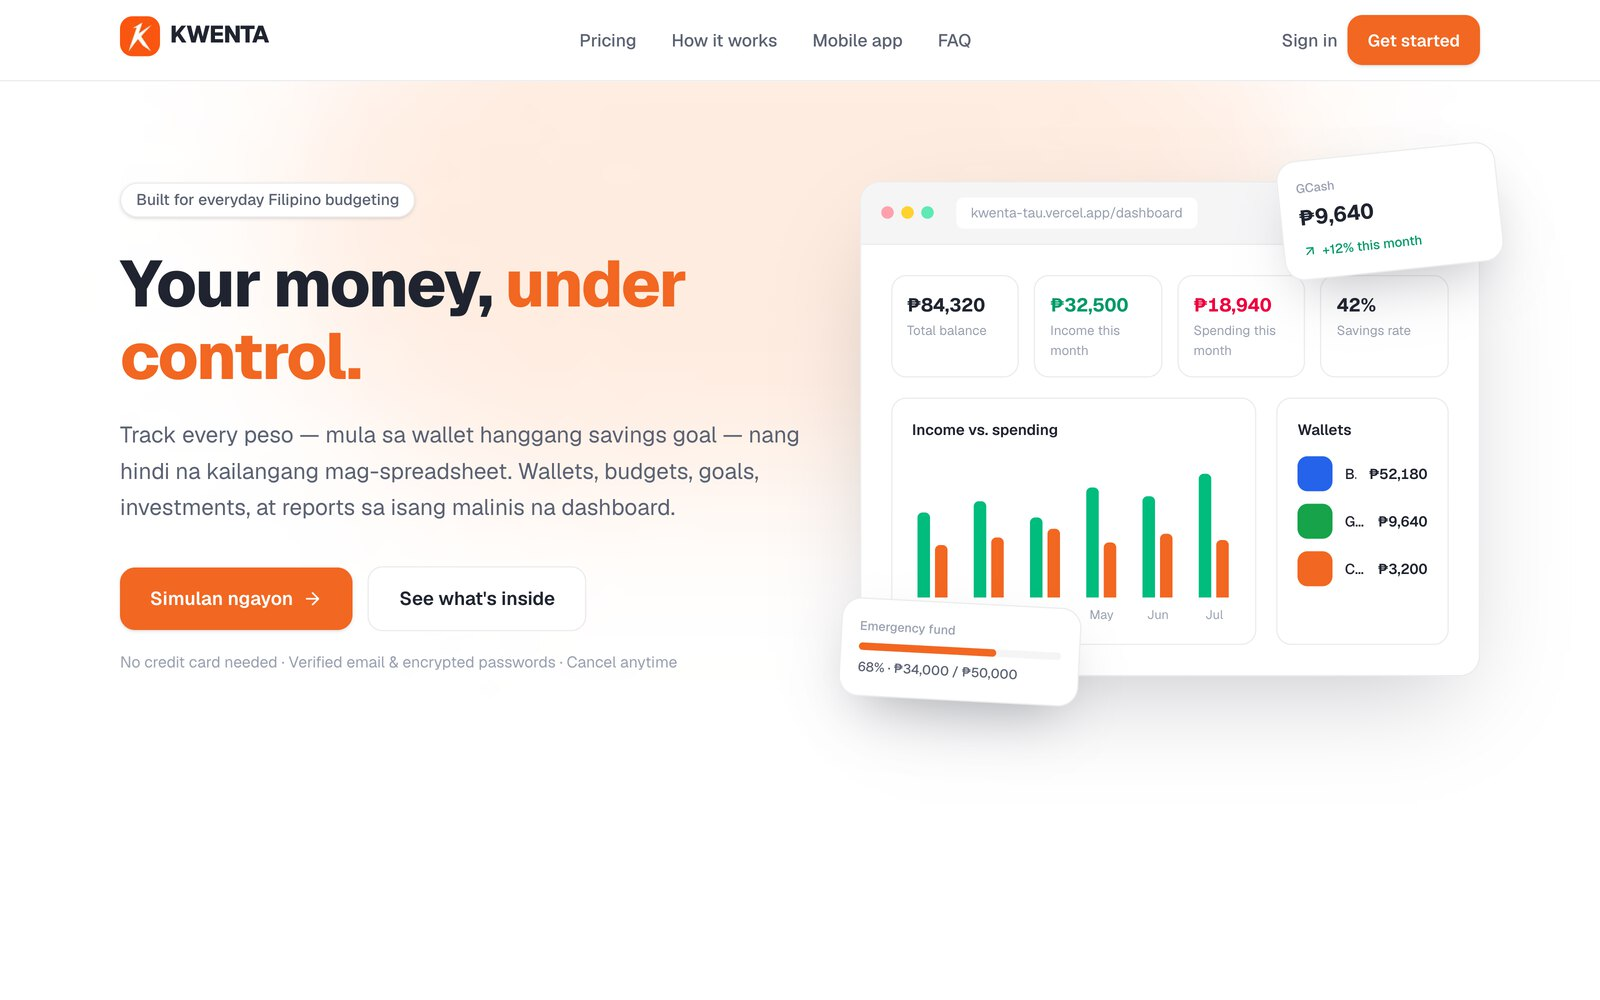
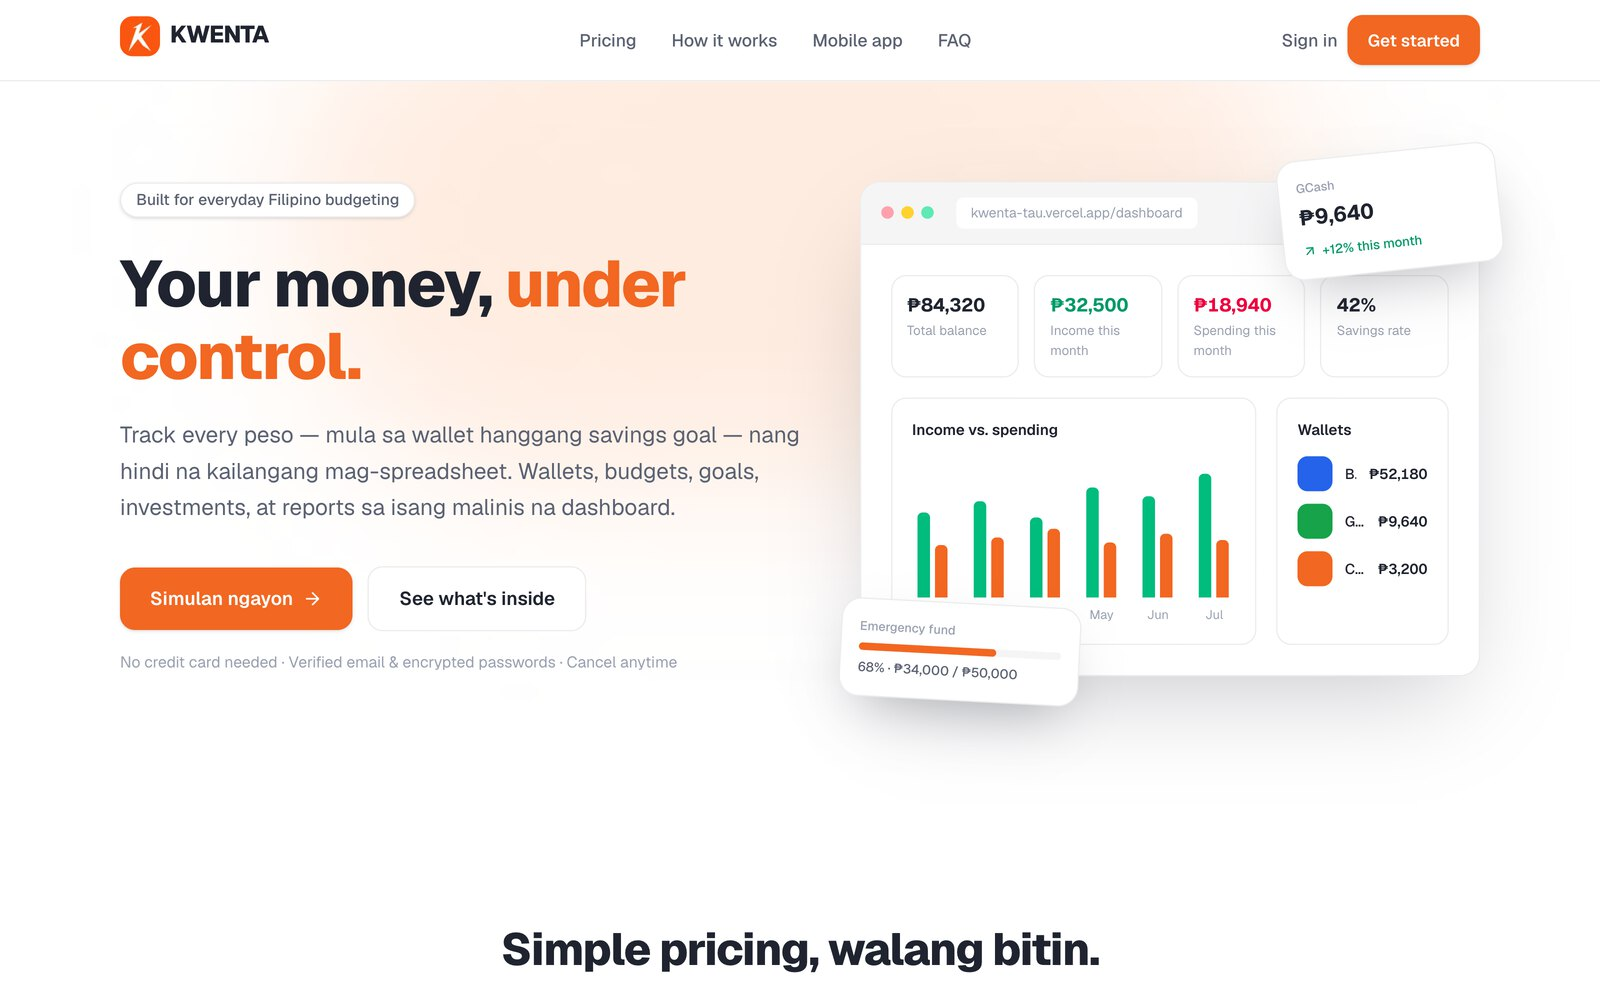
feat: remove unused project gallery images and update project details in JSON

Changed region(s): [[0.3125, 0.93, 0.6875, 0.992]]

diff --git a/src/data/caseStudies.js b/src/data/caseStudies.js
@@ -55,6 +55,165 @@ export const caseStudies = [
     accent: 'mint',
     mock: 'aurawash',
   },
+  // ── Drafted from the live sites, the tags in projects.json and each
+  //    project's own description. Context and Stack are grounded in what the
+  //    deployed product shows; Role and Key Decision are Ben's call to correct.
+  {
+    id: 'kwentatayo',
+    number: '03',
+    kicker: 'Case Study 03 · Offline-First Finance SaaS',
+    title: 'KwentaTayo',
+    subtitle: 'Budget Tracking That Survives a Dropped Signal',
+    summary:
+      'Cloud-based finance and budget tracking SaaS with an offline-first mobile app. Entries are recorded locally and sync once a connection returns, so nothing is lost when the signal drops.',
+    context:
+      'Filipino household budgeting runs on spreadsheets and memory, and the moment worth recording an expense is usually the moment the signal is worst. KwentaTayo puts wallets, budgets, goals and reports on one dashboard, in English or Tagalog, and keeps working when the connection does not.',
+    role:
+      'Full delivery: the React dashboard, the Node API and multi-currency ledger, the offline-first mobile app, and the sync layer between them.',
+    decisionLabel: 'Key Engineering Decision',
+    decision:
+      'Writes are local-first. An entry commits to device storage immediately and joins a sync queue that reconciles when the network returns, so the app never blocks on a request — the alternative, a spinner on every expense, is what makes people stop logging.',
+    stackTitle: 'Platform Stack',
+    stackBadge: 'Offline-First',
+    stack: [
+      { label: 'Frontend', value: 'React · Tailwind CSS' },
+      { label: 'Mobile & Sync', value: 'Offline-first local store · Background reconciliation' },
+      { label: 'Backend & Data', value: 'Node.js · Multi-currency ledger · Encrypted credentials' },
+    ],
+    tags: ['SaaS', 'Offline-first', 'Mobile', 'React', 'Node.js'],
+    liveUrl: 'https://kwentatayo.vercel.app/',
+    accent: 'mint',
+  },
+  {
+    id: 'aqualitpools',
+    number: '04',
+    kicker: 'Case Study 04 · Service Platform + AI',
+    title: 'AquaLit Pools',
+    subtitle: 'Pool Service Operations and an AI Front Desk',
+    summary:
+      'Website and web application for a pool repair and maintenance business, with separate portals for admin, customer and technician — plus an AI agent that handles customer enquiries in conversation.',
+    context:
+      'A pool company doing maintenance, repairs, automation and renovations has four different jobs sharing one phone line. Scheduling lived in someone head, service history was unsearchable, and every enquiry interrupted a technician. The platform gives each role its own view and puts a conversational agent in front of the enquiries.',
+    role:
+      'Site and web application end to end: the three role-scoped portals, the worklog and readings model, and the AI enquiry agent.',
+    decisionLabel: 'Key Product Decision',
+    decision:
+      'Three scoped portals instead of one dashboard with permissions bolted on. A technician opens the worklog for the pool in front of them, a customer sees only their own readings and history, and the admin sees the whole route — nobody navigates around screens that are not theirs.',
+    stackTitle: 'Platform Stack',
+    stackBadge: 'Multi-Role',
+    stack: [
+      { label: 'Frontend', value: 'React · Tailwind CSS' },
+      { label: 'Backend & Data', value: 'Node.js · Worklogs, readings and service history' },
+      { label: 'AI Layer', value: 'Conversational enquiry agent · Scoped to service context' },
+    ],
+    tags: ['Web App', 'AI Agent', 'Multi-role', 'React', 'Node.js'],
+    liveUrl: 'https://aqualitpools.com/',
+    accent: 'accent',
+  },
+  {
+    id: 'robodyx',
+    number: '05',
+    kicker: 'Case Study 05 · B2B Mobile + AI Coach',
+    title: 'Robodyx',
+    subtitle: 'Training Analytics with a Coach Inside the App',
+    summary:
+      'B2B mobile app for tracking training stats, with an AI coach embedded in the app to guide trainees, and an admin portal for the operators behind it.',
+    context:
+      'Trainees log numbers diligently and then have no idea what to change. Operators, meanwhile, cannot see across their roster without asking each person individually. Robodyx pairs the tracking with guidance and gives the operator one board.',
+    role:
+      'React Native app, the AI coach integration, and the admin portal the operators run it from.',
+    decisionLabel: 'Key Product Decision',
+    decision:
+      'The coach reads the trainee own logged history rather than answering in the abstract, so the guidance references the sessions that person actually did — generic advice is what every free app already gives them.',
+    stackTitle: 'Product Stack',
+    stackBadge: 'B2B Mobile',
+    stack: [
+      { label: 'Mobile', value: 'React Native' },
+      { label: 'AI Layer', value: 'In-app coach grounded in the trainee stat history' },
+      { label: 'Operations', value: 'Admin portal · Roster and progress visibility' },
+    ],
+    tags: ['React Native', 'AI Agent', 'B2B', 'Admin Portal'],
+    liveUrl: '',
+    accent: 'mint',
+  },
+  {
+    id: 'supremacy-international',
+    number: '06',
+    kicker: 'Case Study 06 · Affiliate Commerce',
+    title: 'Supremacy International',
+    subtitle: 'Networking Commerce with Attribution Built In',
+    summary:
+      'Networking e-commerce store where members place orders and earn through an affiliate structure built into the platform.',
+    context:
+      'Networking businesses sell real products — wellness essentials, fragrances, skincare, business packages — but run their referral side on spreadsheets and group chats, so payouts are argued about after the fact. This store carries the affiliate structure in the platform itself.',
+    role:
+      'Storefront, product catalogue, cart and checkout, and the affiliate attribution behind the member accounts.',
+    decisionLabel: 'Key Engineering Decision',
+    decision:
+      'Referral attribution is written into the order record itself rather than tracked by a separate plugin, so every sale carries its own referral chain and a payout can be recomputed from the orders alone.',
+    stackTitle: 'Commerce Stack',
+    stackBadge: 'E-Commerce',
+    stack: [
+      { label: 'Frontend', value: 'Responsive storefront · Category and product pages' },
+      { label: 'Commerce', value: 'Catalogue · Cart · Checkout' },
+      { label: 'Affiliate Layer', value: 'Member accounts · Referral attribution on the order' },
+    ],
+    tags: ['E-commerce', 'Affiliate', 'Web'],
+    liveUrl: 'https://www.supremacyinternational.store/',
+    accent: 'accent',
+  },
+  {
+    id: 'quicklist',
+    number: '07',
+    kicker: 'Case Study 07 · Productivity',
+    title: 'QuickList',
+    subtitle: 'Now, Next, Later — Priority as Position',
+    summary:
+      'Advanced productivity and todo web application with drag-and-drop task management, multi-column prioritization (Now / Next / Later), fast keyboard navigation, and real-time task organization designed for high-speed workflow.',
+    context:
+      'Todo apps split into two useless halves: a flat list that tells you nothing about what matters, or a project tool with sprints and story points for a person who just needs to know what to do next. QuickList keeps three columns and a calendar sync, and nothing else.',
+    role:
+      'Full build: the Next.js and TypeScript frontend, Firebase data and auth, calendar sync, and the email alerting.',
+    decisionLabel: 'Key Product Decision',
+    decision:
+      'Priority is position, not a field. Moving a task from Later to Now is a drag rather than a form — re-prioritising happens constantly, and anything that costs a dialogue stops happening within a week.',
+    stackTitle: 'Engineering Stack',
+    stackBadge: 'Full Stack',
+    stack: [
+      { label: 'Frontend', value: 'Next.js · React · TypeScript · Tailwind CSS' },
+      { label: 'Data & Auth', value: 'Firebase · Real-time task state' },
+      { label: 'Integrations & Infra', value: 'Calendar sync · Email alerts · Vercel' },
+    ],
+    tags: ['Next.js', 'React', 'TypeScript', 'Tailwind CSS', 'Firebase', 'Vercel'],
+    liveUrl: 'https://quicklist-alpha-kohl.vercel.app/',
+    accent: 'mint',
+  },
+  {
+    id: 'portfolio-website',
+    number: '08',
+    kicker: 'Case Study 08 · Marketing Site',
+    title: 'Portfolio Website',
+    subtitle: 'This Site',
+    summary:
+      'Modern developer portfolio showcasing my full-stack development projects, technical skills, work experience, and SaaS products. Built with responsive design, smooth animations, optimized performance, and SEO best practices.',
+    context:
+      'A CV lists technologies; it does not show whether someone can ship. This site treats each project as a case study — the problem, the call made, and the interface doing its job — so the work argues for itself before the first call.',
+    role:
+      'Design and build: the component system, the content model, the reveal and scroll behaviour, and the contact pipeline.',
+    decisionLabel: 'Key Engineering Decision',
+    decision:
+      'Projects live in a plain JSON file, so adding one needs no code change, and a case study attaches by slug only when a project has earned a deep dive. The grid and the detail pages read from one list, which keeps them from drifting apart.',
+    stackTitle: 'Engineering Stack',
+    stackBadge: 'Full Stack',
+    stack: [
+      { label: 'Frontend', value: 'React.js · Tailwind CSS · Vite' },
+      { label: 'Backend', value: 'Node.js · NodeMailer contact pipeline' },
+      { label: 'Content & Delivery', value: 'JSON-driven project list · Responsive · SEO' },
+    ],
+    tags: ['React.js', 'Node.js', 'Tailwind CSS', 'Vite', 'NodeMailer'],
+    liveUrl: '',
+    accent: 'accent',
+  },
 ]
 
 // FAQ — the questions clients actually ask before signing.

diff --git a/src/pages/ProjectDetail.jsx b/src/pages/ProjectDetail.jsx
@@ -88,28 +88,6 @@ export default function ProjectDetail() {
           <WorkThumb thumb={item.thumb} image={item.image} fit="auto" className="h-[300px] sm:h-[420px]" />
         </div>
 
-        {/* ── Further screenshots, for the projects that have them ── */}
-        {item.gallery?.length > 0 && (
-          <section className="reveal mt-14">
-            <h2 className="mock-label mb-5 text-accentT">Inside the build</h2>
-            <div className="grid grid-cols-1 sm:grid-cols-2 gap-6">
-              {item.gallery.map((shot) => (
-                <figure key={shot.src}>
-                  <div className="rounded-2xl overflow-hidden border border-line bg-raised">
-                    <img
-                      src={shot.src}
-                      alt={shot.caption}
-                      loading="lazy"
-                      className="block w-full aspect-[16/10] object-cover"
-                    />
-                  </div>
-                  <figcaption className="text-muted text-sm mt-3">{shot.caption}</figcaption>
-                </figure>
-              ))}
-            </div>
-          </section>
-        )}
-
         {/* ── Deep dive, when the project has one ── */}
         {study && (
           <div className="reveal grid grid-cols-1 lg:grid-cols-5 gap-6 mt-14">

diff --git a/public/work/README.md b/public/work/README.md
@@ -42,56 +42,37 @@ detail page, so the sides are the first thing to go on small screens.
 
 ## Captured screenshots
 
-Shot from the live sites with headless Chromium at 1600 x 1000, JPG q86.
-Each project's banner (wired as `"image"`) is listed first, then the shots
-that appear in the detail page gallery (`"gallery"` in projects.json).
+One banner per project, shot from the live site with headless Chromium at
+1600 x 1000 (16:10), JPG q86. Wired in via `"image"` in projects.json.
 
-  securepeek.jpg                            live scan of its own host - score 97, grade A+
-  securepeek-checks.jpg                     header and transport checks table
-  securepeek-landing.jpg                    the one-input landing page
+  securepeek.jpg               a live scan of its own host - score 97, grade A+
+  aurawash.jpg                 hero over the admin dashboard
+  kwentatayo.jpg               hero over the dashboard mockup
+  aqualitpools.jpg             hero - pool at dusk
+  supremacy-international.jpg  storefront hero
+  quicklist.jpg                hero - "Organize Your Life"
+  portfolio-website.jpg        this site's own hero
 
-  aurawash.jpg                              hero over the admin dashboard
-  aurawash-workflow.jpg                     dispatch, fleet and status-sync modules
-  aurawash-pricing.jpg                      per-branch plan tiers
+### Still without an image
 
-  kwentatayo.jpg                            hero over the dashboard mockup
-  kwentatayo-mobile.jpg                     the offline-first mobile app
-  kwentatayo-how.jpg                        three-step onboarding
-
-  aqualitpools.jpg                          hero - pool at dusk
-  aqualitpools-services.jpg                 four service lines under one team
-  aqualitpools-layers.jpg                   the three layers of a smart pool
-
-  supremacy-international.jpg               storefront hero
-  supremacy-international-bestsellers.jpg   best sellers, straight to cart
-  supremacy-international-categories.jpg    curated category families
-
-  quicklist.jpg                             hero - "Organize Your Life"
-  quicklist-features.jpg                    tracking, calendar sync, email alerts
-  quicklist-how.jpg                         note to reminder in three steps
-
-  portfolio-website.jpg                     this site's own hero
-  portfolio-website-work.jpg                the project grid
-  portfolio-website-services.jpg            services and the stack behind them
-
-### Still without images
-
-  robodyx          no liveUrl; it is a mobile app, so it needs exported
-                   device screenshots rather than a page capture
-
-It falls back to the abstract placeholder until that is resolved.
+  robodyx     no liveUrl; it is a mobile app, so it needs exported device
+              screenshots rather than a page capture. Falls back to the
+              abstract placeholder until then.
 
 ### Re-shooting
 
-The captures were scripted with playwright-core driving the Chromium in
-~/Library/Caches/ms-playwright. Sites needing care:
+Scripted with playwright-core driving the Chromium in
+~/Library/Caches/ms-playwright. Shoot the page as it actually is - hiding the
+sections under a short hero leaves a dead band that reads as a broken image.
+A viewport of 1280 x 800 suits heroes shorter than 16:10, because the next
+section then fills the remainder naturally instead of a blank gap.
 
-  aqualitpools     never reaches networkidle - use domcontentloaded, and
-                   dismiss the promo modal before shooting
-  supremacy        shot at a 1280 viewport with the lower sections set to
-                   visibility:hidden, so the hero is not crowded by the next
-                   one; a fixed chat bubble also needs hiding
-  kwentatayo       same treatment - the hero alone is shorter than 16:10
+Sites needing care:
+
+  aqualitpools  never reaches networkidle - use domcontentloaded, and dismiss
+                the promo modal before shooting
+  supremacy     a fixed chat bubble sits over the page; hide fixed elements
+                under ~120px before capturing
 
 Note: quicklist's old host, quicklist.bensketch.pro, is dead (expired
 domain). The live entry now points at the Vercel deployment.
